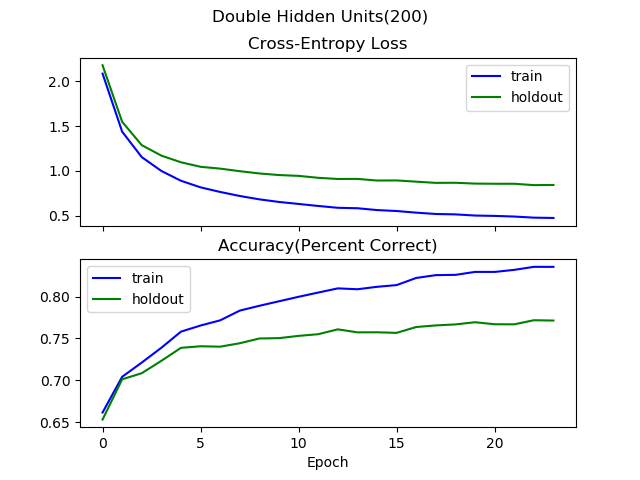
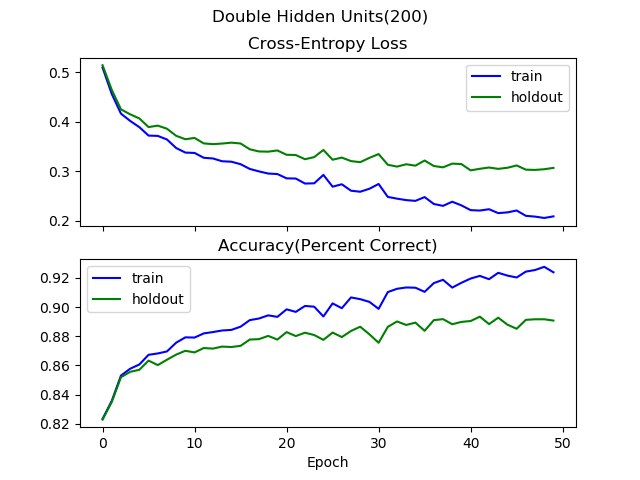
Fix grad check

diff --git a/fashion/neuralnet.py b/fashion/neuralnet.py
@@ -189,7 +189,7 @@ class Layer():
         Define the architecture and create placeholder.
         """
         np.random.seed(42)
-        self.w = np.random.normal(size=(in_units, out_units))    # Declare the Weight matrix
+        self.w = np.random.normal(loc=0, scale=1/np.sqrt(in_units), size=(in_units, out_units))    # Declare the Weight matrix
         self.b = np.zeros(out_units)    # Create a placeholder for Bias
         self.x = None    # Save the input to forward in this
         self.a = None    # Save the output of forward pass in this (without activation)
@@ -335,12 +335,15 @@ def train(model, x_train, y_train, x_valid, y_valid, config):
         (valid_out,valid_error) = model.forward(x_valid, targets=y_valid)
         if len(valid_errors)!=0 and valid_error > valid_errors[-1]:
             early_stop_counter += 1
+        else:
+            early_stop_counter = 0
 
         train_accuracies.append(np.sum(np.argmax(train_out,axis = 1)==np.argmax(y_train,axis = 1))/(y_train.shape[0]))
         valid_accuracies.append(np.sum(np.argmax(valid_out,axis = 1)==np.argmax(y_valid,axis = 1))/(y_valid.shape[0]))
         train_errors.append(train_error)
         valid_errors.append(valid_error)
         if config['early_stop'] and early_stop_counter == config['early_stop_epoch']:
+            print("early stopping at epoch {}, best performance at epoch {}.".format(epoch, epoch - early_stop_counter))
             break
         else:
             for j in range(layers):
@@ -378,41 +381,42 @@ def check_grad(model, X_check, y_check):
     
     for grad in check_list:
         model.forward(X_check, targets=y_check)
-        model.backward(do_gd = True)
+        model.backward(do_gd = False)
         target = grad.replace('d_','')
-        x=[target, epsilon, -eval(grad), None]
+        x=[target, epsilon, -eval(grad), None, None]
         exec(target+' -= epsilon')
         pre = model.forward(X_check, targets=y_check)[1]
         exec(target+' += 2*epsilon')
         curr = model.forward(X_check, targets=y_check)[1]
         x[3] = (curr - pre)/epsilon/2
+        x[4] = abs(x[3] - x[2])
         table.append(x)
     
-    df = pd.DataFrame(table, columns=['target','epsilon','gradient','approx'])
+    df = pd.DataFrame(table, columns=['target','epsilon','gradient','approx', 'delta'])
     print(df)
 
-def split(X, y, do_check=True):
+def split(X, y):
     # Create splits for validation data here.
     train_indices = []
     valid_indices = []
-    check_indices = []
 
     # evenly distribute labels
     for i in range(0, y.shape[1]):
         total = np.argwhere(y[:,i]==1).flatten()
-        check_indices.extend(total[:2])
         valid_indices.extend(total[:1000])
         train_indices.extend(total[1000:])
-
-    if do_check:
-        print("---- Checking gradient ----")
-        check_grad(model, X[check_indices], y[check_indices])
-        print("---- Checking done ----")
 
     assert sum(valid_indices)+sum(train_indices) == sum(range(len(X)))
     x_valid, y_valid = X[valid_indices], y[valid_indices]
     x_train, y_train = X[train_indices], y[train_indices]
     return x_train, y_train, x_valid, y_valid
+
+def getCheck(X, y):
+    check_indices = []
+    for i in range(0, y.shape[1]):
+        total = np.argwhere(y[:,i]==1).flatten()
+        check_indices.extend(total[:1])
+    return X[check_indices], y[check_indices]
 
 
 if __name__ == "__main__":

diff --git a/fashionclassifier.tex b/fashionclassifier.tex
@@ -46,9 +46,33 @@ University of California, San Diego \\
 Logistic regression has been proved to be too simple to solve some of the classification problems. In this paper, we manage to implement a more advanced machine learning system with the introduce of hidden layers,regularization and different kinds of activation functions.Our models are evaluated on the MNIST dataset to do fashion classification test. As a result, our model  achieves an average accuracy of $ 99\% $. We hope our efforts can clearly explain the importance of hidden layers,regularization and different kinds of activation functions.
 \section{Method}
 \section{Dataset and Task Description}
+Fashion MNIST dataset is used in our lab. Normalization and one-hot-encoding is applied before using them to train our model.
 \section{Gradient Computation Check}
+
 \section{Gradient Descent Using Momentum}
+* TODO:Describe your training procedure *\\
+Figure X shows the loss and accuracy during training process. The final test accuracy is 0.8796.\\
+* TODO:PLOT * \\
 \section{Experiment with Regularization}
+We test different L2 penalty regularizors in this section. i.e. we choose different $\lambda$ values in the regularizor term $\lambda (\parallel w \parallel_2^2+\parallel b \parallel_2^2)$ of loss function. \\
+With $\lambda = 0.001$, we get a final test accuracy of 0.8807. \\
+With $\lambda = 0.0001$, we get a final test accuracy of 0.8804. \\
+
+* TODO: Comment on the change *
+
 \section{Experiment with Activations}
+In this section, we experiment with different activation functions.Figure X shows the loss and accuracy during training process.\\
+Using $tanh$ as our activation, the final test accuracy is 0.8796. \\
+Using $sigmoid$ as our activation, the final test accuracy is 0.8479. \\
+Using $ReLU$ as our activation, the final test accuracy is 0.876. \\
+*TODO: Comment on performance and compare. what works best. add plot*
+
 \section{Experiment with Network Topology}
+In this section, we experiment with different neural network topology. Figure X shows the loss and accuracy during training process. \\
+By halving the number of hidden units,i.e. set it to 50, the final test accuracy is 0.8755.\\
+By doubling the number of hidden units,i.e. set it to 200, the final test accuracy is 0.881.\\
+We also experiment a neural network with two hidden layers while keeping the same number of total parameters as one 50-unit hidden layer, i.e. two 47-unit hidden layers. The final test accuracy is 0.8821. \\
+
+Here we see that halving the hidden unit number decreases performance, but insignificantly. Similarly, doubling the hidden unit number increases performance insignificantly. On the other hand, extending the neural network's depth while keep the same number of parameters, the performance increases by a relatively huge amount. \\
+To conclude, depth is important.
 \end{document}

diff --git a/fashion/main.py b/fashion/main.py
@@ -8,7 +8,7 @@ def trainModelByConfig(config, plot_title='Default Title'):
     # Load the data
     X, y = load_data(path="./", mode="train")
     x_test,  y_test  = load_data(path="./", mode="t10k")
-    X_train, y_train, X_valid, y_valid = split(X, y, do_check=False)
+    X_train, y_train, X_valid, y_valid = split(X, y)
     
     train_errors,valid_errors, train_accuracies, valid_accuracies = train(model, X_train, y_train, X_valid, y_valid, config)
     print("Test accuracy:" + str(test(model, x_test, y_test)))
@@ -27,6 +27,15 @@ def trainModelByConfig(config, plot_title='Default Title'):
     plt.draw()
     plt.pause(0.001)
 
+def checkGrad():
+    config = load_config("./")
+    model  = Neuralnetwork(config)
+    X, y = load_data(path="./", mode="train")
+    X_check, y_check = getCheck(X, y)
+    print("---- Checking gradient ----")
+    check_grad(model, X_check, y_check)
+    print("---- Checking done ----")
+
 def showTraining():
     config = load_config("./")
     trainModelByConfig(config, plot_title='NN Training')
@@ -35,6 +44,7 @@ def showTraining():
 
 def showRegularization():
     config = load_config("./")
+    config['epochs'] = int(config['epochs'] * 1.1)
     print("Using 0.001 L2 regularization..")
     config['L2_penalty'] = 0.001
     trainModelByConfig(config, plot_title='L2=0.001')
@@ -69,7 +79,7 @@ def showNetworkTopology():
     config['layer_specs'][2] = 200
     trainModelByConfig(config, plot_title='Double Hidden Units(200)')
     print("Using two hidden layers..")
-    config['layer_specs'] = [784, 45, 45, 45, 10]
+    config['layer_specs'] = [784, 47, 47, 47, 10]
     trainModelByConfig(config, plot_title='Two Hidden Layers')
     plt.show()
 
